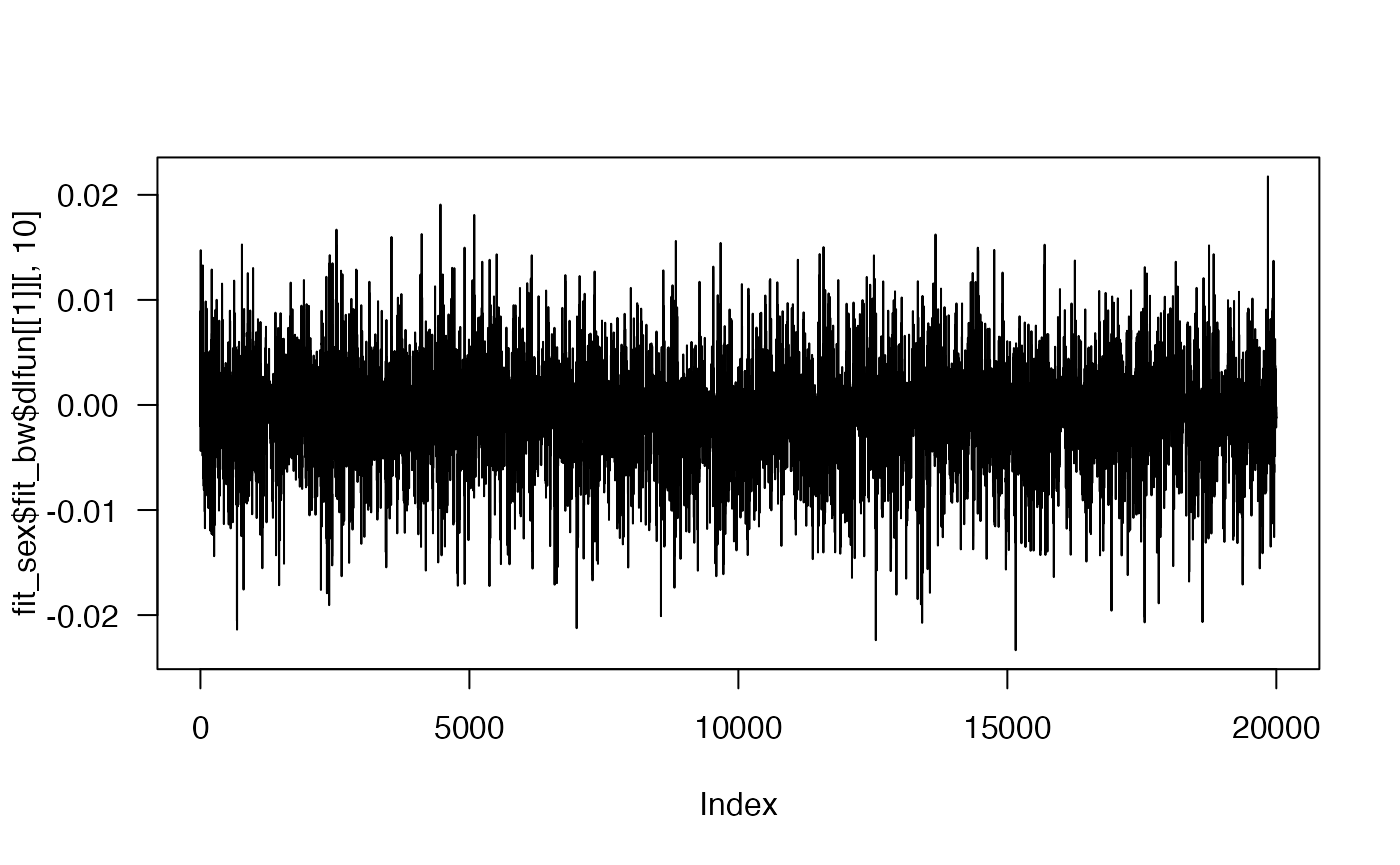
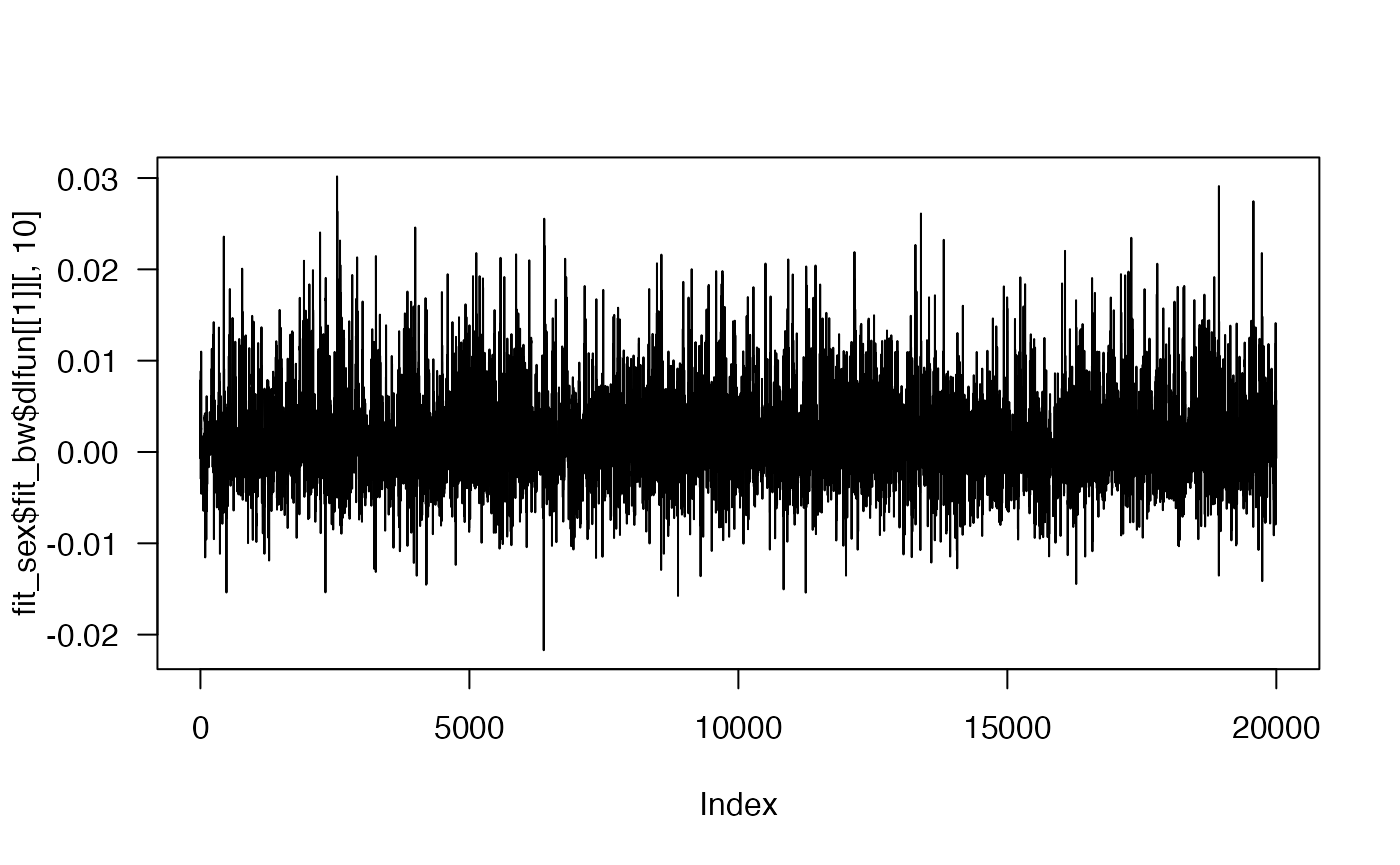
swap order of weights in bdlim1

diff --git a/docs/articles/bdlim.html b/docs/articles/bdlim.html
@@ -39,7 +39,7 @@
     
     <a class="navbar-brand me-2" href="../index.html">bdlim</a>
 
-    <small class="nav-text text-muted me-auto" data-bs-toggle="tooltip" data-bs-placement="bottom" title="">0.2.0</small>
+    <small class="nav-text text-muted me-auto" data-bs-toggle="tooltip" data-bs-placement="bottom" title="">0.2.1</small>
 
     
     <button class="navbar-toggler" type="button" data-bs-toggle="collapse" data-bs-target="#navbar" aria-controls="navbar" aria-expanded="false" aria-label="Toggle navigation">
@@ -105,7 +105,7 @@
 <div class="sourceCode" id="cb2"><pre class="downlit sourceCode r">
 <code class="sourceCode R"><span><span class="co"># load package</span></span>
 <span><span class="kw"><a href="https://rdrr.io/r/base/library.html" class="external-link">library</a></span><span class="op">(</span><span class="va"><a href="https://anderwilson.github.io/bdlim/" class="external-link">bdlim</a></span><span class="op">)</span></span>
-<span><span class="co">#&gt; This is bdlim 0.2.0.</span></span>
+<span><span class="co">#&gt; This is bdlim 0.2.1.</span></span>
 <span><span class="co">#&gt; For details: help(`bdlim-package`), vignette('bdlim'), or https://anderwilson.github.io/bdlim/</span></span></code></pre></div>
 </div>
 <div class="section level2">
@@ -163,11 +163,11 @@ model as our primary model.</p>
 <span><span class="co">#&gt; </span></span>
 <span><span class="co">#&gt; Modification pattern probabilities (higher is better fit):</span></span>
 <span><span class="co">#&gt;   *bw*      b      w      n </span></span>
-<span><span class="co">#&gt; 0.5142 0.4857 0.0001 0.0000 </span></span>
+<span><span class="co">#&gt; 0.5241 0.4757 0.0002 0.0000 </span></span>
 <span><span class="co">#&gt; </span></span>
 <span><span class="co">#&gt; Modification pattern WAIC (lower is better fit):</span></span>
-<span><span class="co">#&gt;         bw      *b*        w        n</span></span>
-<span><span class="co">#&gt; 1 1698.297 1697.598 1724.936 1735.252</span></span>
+<span><span class="co">#&gt;        bw      *b*        w        n</span></span>
+<span><span class="co">#&gt; 1 1698.36 1698.278 1727.316 1735.125</span></span>
 <span><span class="co">#&gt; </span></span>
 <span><span class="co">#&gt; Note: Model probabilities tend to favor more complex models compared to WAIC. It is recomended to use model probabilities for selecting the modification pattern and WAIC to compare degrees of freedom for the weight function.</span></span></code></pre></div>
 <p>Next, the summary allows us to view some model output and make the
@@ -201,41 +201,41 @@ group-specific intercepts.</li>
 <span><span class="co">#&gt; </span></span>
 <span><span class="co">#&gt; Model fit statistics:</span></span>
 <span><span class="co">#&gt;   *bw*      b      w      n </span></span>
-<span><span class="co">#&gt; 0.5142 0.4857 0.0001 0.0000 </span></span>
+<span><span class="co">#&gt; 0.5241 0.4757 0.0002 0.0000 </span></span>
 <span><span class="co">#&gt; </span></span>
 <span><span class="co">#&gt; </span></span>
 <span><span class="co">#&gt; Estimated cumulative effects:</span></span>
-<span><span class="co">#&gt;  group        mean       median         sd       q2.5      q97.5 pr_gr0</span></span>
-<span><span class="co">#&gt;      F  0.01370411  0.005127469 0.06041609 -0.1030119  0.1582650 0.5754</span></span>
-<span><span class="co">#&gt;      M -0.63610829 -0.634678781 0.09226911 -0.8164490 -0.4589984 0.0000</span></span>
+<span><span class="co">#&gt;  group        mean       median         sd        q2.5      q97.5 pr_gr0</span></span>
+<span><span class="co">#&gt;      F  0.01265607  0.003955644 0.05747093 -0.09589774  0.1477296 0.5768</span></span>
+<span><span class="co">#&gt;      M -0.64229013 -0.640135385 0.09668678 -0.83429787 -0.4595210 0.0000</span></span>
 <span><span class="co">#&gt; </span></span>
 <span><span class="co">#&gt; </span></span>
 <span><span class="co">#&gt; Estimated covariate regression coefficients:</span></span>
 <span><span class="co">#&gt;                   name         mean       median          sd          q2.5</span></span>
-<span><span class="co">#&gt;  interceptnames_groups -1.145275401 -1.159775634 6.338411354 -13.788131923</span></span>
-<span><span class="co">#&gt;  interceptnames_groups  0.391740393  0.354081236 6.340469888 -12.152820322</span></span>
-<span><span class="co">#&gt;            MomPriorBMI -0.054184102 -0.054202340 0.003134188  -0.060440886</span></span>
-<span><span class="co">#&gt;                 MomAge -0.001642926 -0.001602513 0.003171888  -0.007906933</span></span>
-<span><span class="co">#&gt;            raceAsianPI  0.156153329  0.154831239 0.239137581  -0.306669789</span></span>
-<span><span class="co">#&gt;              raceBlack  0.036144264  0.035644046 0.241432209  -0.434388449</span></span>
-<span><span class="co">#&gt;              racewhite  0.103328127  0.103092631 0.233270350  -0.352307691</span></span>
-<span><span class="co">#&gt;    HispanicNonHispanic  0.254142033  0.254020113 0.038985612   0.177098325</span></span>
-<span><span class="co">#&gt;        EstMonthConcept  0.036646531  0.036633576 0.005474293   0.026066821</span></span>
-<span><span class="co">#&gt;         EstYearConcept  0.001517289  0.001533233 0.003146498  -0.004611081</span></span>
+<span><span class="co">#&gt;  interceptnames_groups -1.288649009 -1.352794065 6.329812351 -13.770184970</span></span>
+<span><span class="co">#&gt;  interceptnames_groups  0.278686005  0.217242365 6.335975467 -12.250935583</span></span>
+<span><span class="co">#&gt;            MomPriorBMI -0.054166358 -0.054192685 0.003145915  -0.060347975</span></span>
+<span><span class="co">#&gt;                 MomAge -0.001608893 -0.001591128 0.003126360  -0.007893414</span></span>
+<span><span class="co">#&gt;            raceAsianPI  0.156088428  0.155867977 0.237822858  -0.315056574</span></span>
+<span><span class="co">#&gt;              raceBlack  0.038428563  0.037625608 0.241294642  -0.428910476</span></span>
+<span><span class="co">#&gt;              racewhite  0.103999310  0.104812728 0.231502812  -0.351104997</span></span>
+<span><span class="co">#&gt;    HispanicNonHispanic  0.254167520  0.253542346 0.039506057   0.175608920</span></span>
+<span><span class="co">#&gt;        EstMonthConcept  0.036834221  0.036780395 0.005499963   0.026110036</span></span>
+<span><span class="co">#&gt;         EstYearConcept  0.001589746  0.001617969 0.003141937  -0.004611998</span></span>
 <span><span class="co">#&gt;         q97.5 pr_gr0</span></span>
-<span><span class="co">#&gt;  11.126995782 0.4257</span></span>
-<span><span class="co">#&gt;  12.698464274 0.5239</span></span>
-<span><span class="co">#&gt;  -0.048103753 0.0000</span></span>
-<span><span class="co">#&gt;   0.004476351 0.3041</span></span>
-<span><span class="co">#&gt;   0.621747970 0.7415</span></span>
-<span><span class="co">#&gt;   0.510347878 0.5608</span></span>
-<span><span class="co">#&gt;   0.561156651 0.6694</span></span>
-<span><span class="co">#&gt;   0.330786945 1.0000</span></span>
-<span><span class="co">#&gt;   0.047386766 1.0000</span></span>
-<span><span class="co">#&gt;   0.007774140 0.6840</span></span>
+<span><span class="co">#&gt;  11.234639550 0.4168</span></span>
+<span><span class="co">#&gt;  12.740740315 0.5139</span></span>
+<span><span class="co">#&gt;  -0.047987580 0.0000</span></span>
+<span><span class="co">#&gt;   0.004489367 0.3044</span></span>
+<span><span class="co">#&gt;   0.624049796 0.7460</span></span>
+<span><span class="co">#&gt;   0.514582108 0.5636</span></span>
+<span><span class="co">#&gt;   0.557782646 0.6737</span></span>
+<span><span class="co">#&gt;   0.331154266 1.0000</span></span>
+<span><span class="co">#&gt;   0.047773498 1.0000</span></span>
+<span><span class="co">#&gt;   0.007734955 0.6923</span></span>
 <span><span class="co">#&gt; </span></span>
 <span><span class="co">#&gt; </span></span>
-<span><span class="co">#&gt; BDLIM fit on 1000 observations. Estimated residual standard deviation is 0.562 (0.537,0.588). WAIC is 1698.297.</span></span>
+<span><span class="co">#&gt; BDLIM fit on 1000 observations. Estimated residual standard deviation is 0.562 (0.538,0.588). WAIC is 1698.36.</span></span>
 <span><span class="co">#&gt; </span></span>
 <span><span class="co">#&gt; Use `plot(); for the summary.bdlim4 object to view estimated distributed lag functions. The `dlfun' object in the summary object contains estimates of the lag functions.</span></span></code></pre></div>
 <p>Finally, we can plot the results. The plots show the estimated

diff --git a/docs/authors.html b/docs/authors.html
@@ -16,7 +16,7 @@
     
     <a class="navbar-brand me-2" href="index.html">bdlim</a>
 
-    <small class="nav-text text-muted me-auto" data-bs-toggle="tooltip" data-bs-placement="bottom" title="">0.2.0</small>
+    <small class="nav-text text-muted me-auto" data-bs-toggle="tooltip" data-bs-placement="bottom" title="">0.2.1</small>
 
     
     <button class="navbar-toggler" type="button" data-bs-toggle="collapse" data-bs-target="#navbar" aria-controls="navbar" aria-expanded="false" aria-label="Toggle navigation">
@@ -73,13 +73,13 @@
 
       <p>Wilson A (2024).
 <em>bdlim: Bayesian Distributed Lag Interaction Models</em>.
-R package version 0.2.0, <a href="https://anderwilson.github.io/bdlim/" class="external-link">https://anderwilson.github.io/bdlim/</a>. 
+R package version 0.2.1, <a href="https://anderwilson.github.io/bdlim/" class="external-link">https://anderwilson.github.io/bdlim/</a>. 
 </p>
       <pre>@Manual{,
   title = {bdlim: Bayesian Distributed Lag Interaction Models},
   author = {Ander Wilson},
   year = {2024},
-  note = {R package version 0.2.0},
+  note = {R package version 0.2.1},
   url = {https://anderwilson.github.io/bdlim/},
 }</pre>
       <p>Wilson A, Chiu YM, Hsu HL, Wright RO, Wright RJ, Coull BA (2017).

diff --git a/docs/news/index.html b/docs/news/index.html
@@ -16,7 +16,7 @@
     
     <a class="navbar-brand me-2" href="../index.html">bdlim</a>
 
-    <small class="nav-text text-muted me-auto" data-bs-toggle="tooltip" data-bs-placement="bottom" title="">0.2.0</small>
+    <small class="nav-text text-muted me-auto" data-bs-toggle="tooltip" data-bs-placement="bottom" title="">0.2.1</small>
 
     
     <button class="navbar-toggler" type="button" data-bs-toggle="collapse" data-bs-target="#navbar" aria-controls="navbar" aria-expanded="false" aria-label="Toggle navigation">
@@ -60,10 +60,15 @@
     </div>
 
     <div class="section level2">
+<h2 class="pkg-version" data-toc-text="0.2.1" id="bdlim-021">bdlim 0.2.1<a class="anchor" aria-label="anchor" href="#bdlim-021"></a></h2>
+<p>Swap order of exposures in design matrix.</p>
+</div>
+    <div class="section level2">
 <h2 class="pkg-version" data-toc-text="0.2.0" id="bdlim-020">bdlim 0.2.0<a class="anchor" aria-label="anchor" href="#bdlim-020"></a></h2>
 <p>Initial release on GitHub.</p>
 </div>
-  </main></div>
+  </main><aside class="col-md-3"><nav id="toc"><h2>On this page</h2>
+    </nav></aside></div>
 
 
     <footer><div class="pkgdown-footer-left">

diff --git a/docs/articles/bdlim-technical-Rmd.html b/docs/articles/bdlim-technical-Rmd.html
@@ -39,7 +39,7 @@
     
     <a class="navbar-brand me-2" href="../index.html">bdlim</a>
 
-    <small class="nav-text text-muted me-auto" data-bs-toggle="tooltip" data-bs-placement="bottom" title="">0.2.0</small>
+    <small class="nav-text text-muted me-auto" data-bs-toggle="tooltip" data-bs-placement="bottom" title="">0.2.1</small>
 
     
     <button class="navbar-toggler" type="button" data-bs-toggle="collapse" data-bs-target="#navbar" aria-controls="navbar" aria-expanded="false" aria-label="Toggle navigation">

diff --git a/docs/articles/index.html b/docs/articles/index.html
@@ -16,7 +16,7 @@
     
     <a class="navbar-brand me-2" href="../index.html">bdlim</a>
 
-    <small class="nav-text text-muted me-auto" data-bs-toggle="tooltip" data-bs-placement="bottom" title="">0.2.0</small>
+    <small class="nav-text text-muted me-auto" data-bs-toggle="tooltip" data-bs-placement="bottom" title="">0.2.1</small>
 
     
     <button class="navbar-toggler" type="button" data-bs-toggle="collapse" data-bs-target="#navbar" aria-controls="navbar" aria-expanded="false" aria-label="Toggle navigation">

diff --git a/docs/404.html b/docs/404.html
@@ -37,7 +37,7 @@
     
     <a class="navbar-brand me-2" href="index.html">bdlim</a>
 
-    <small class="nav-text text-muted me-auto" data-bs-toggle="tooltip" data-bs-placement="bottom" title="">0.2.0</small>
+    <small class="nav-text text-muted me-auto" data-bs-toggle="tooltip" data-bs-placement="bottom" title="">0.2.1</small>
 
     
     <button class="navbar-toggler" type="button" data-bs-toggle="collapse" data-bs-target="#navbar" aria-controls="navbar" aria-expanded="false" aria-label="Toggle navigation">

diff --git a/docs/LICENSE.html b/docs/LICENSE.html
@@ -16,7 +16,7 @@
     
     <a class="navbar-brand me-2" href="index.html">bdlim</a>
 
-    <small class="nav-text text-muted me-auto" data-bs-toggle="tooltip" data-bs-placement="bottom" title="">0.2.0</small>
+    <small class="nav-text text-muted me-auto" data-bs-toggle="tooltip" data-bs-placement="bottom" title="">0.2.1</small>
 
     
     <button class="navbar-toggler" type="button" data-bs-toggle="collapse" data-bs-target="#navbar" aria-controls="navbar" aria-expanded="false" aria-label="Toggle navigation">

diff --git a/docs/index.html b/docs/index.html
@@ -39,7 +39,7 @@
     
     <a class="navbar-brand me-2" href="index.html">bdlim</a>
 
-    <small class="nav-text text-muted me-auto" data-bs-toggle="tooltip" data-bs-placement="bottom" title="">0.2.0</small>
+    <small class="nav-text text-muted me-auto" data-bs-toggle="tooltip" data-bs-placement="bottom" title="">0.2.1</small>
 
     
     <button class="navbar-toggler" type="button" data-bs-toggle="collapse" data-bs-target="#navbar" aria-controls="navbar" aria-expanded="false" aria-label="Toggle navigation">

diff --git a/NEWS.md b/NEWS.md
@@ -1,3 +1,7 @@
+# bdlim 0.2.1
+
+Swap order of exposures in design matrix.
+
 # bdlim 0.2.0
 
 Initial release on GitHub.
